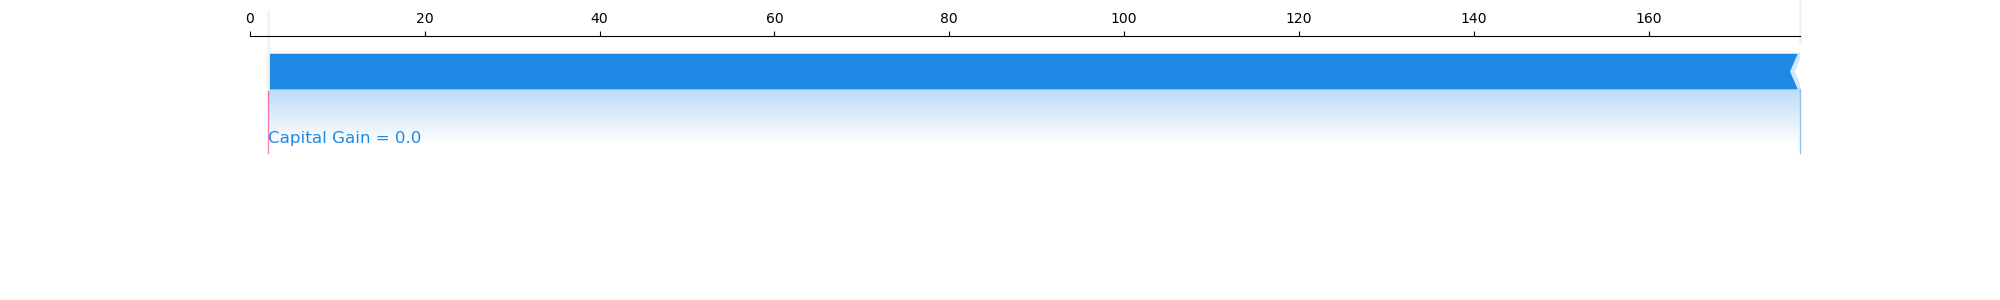
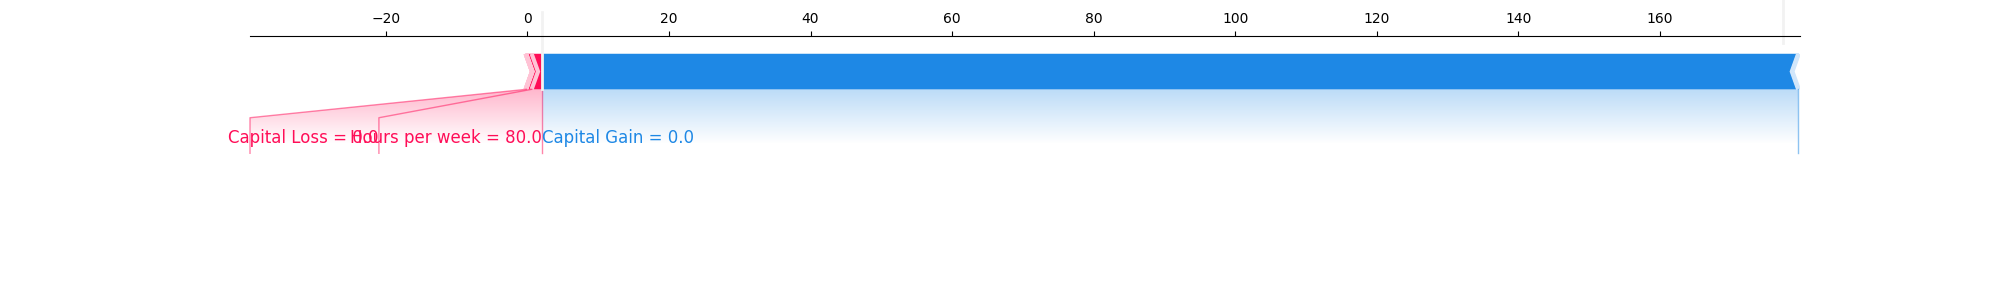
Add HTTP handling for prediction and explanation

diff --git a/frontend/src/components/HelloWorld.vue b/frontend/src/components/HelloWorld.vue
@@ -4,7 +4,9 @@ import { ref } from 'vue'
 defineProps<{
   msg: string
 }>()
-const helloResponse = ref("Placeholder")
+const helloResponse = ref("Hello Placeholder")
+const predictResponse = ref("[Predict Placeholder]")
+const explanationSource = ref("/img/explanationFiller.png")
 
 async function getResponse() {
   helloResponse.value = await fetch('http://localhost:5000/')
@@ -12,13 +14,26 @@ async function getResponse() {
         .catch(error => error.toString())
 }
 
+async function getPrediction() {
+  predictResponse.value = await fetch('http://localhost:5000/predict')
+        .then(response => response.json().then(json => JSON.stringify(json)))
+        .catch(error => error.toString())
+}
+
+async function getExplanation() {
+  explanationSource.value = "http://localhost:5000/explain"
+}
 </script>
 
 <template>
   <div class="greetings">
     <h1 class="green">{{ msg }}</h1>
     <h1>{{helloResponse}}</h1>
+    <h1>Prediction: {{predictResponse}}</h1>
     <button @click="getResponse()">Get Response</button>
+    <button @click="getPrediction()">Get Prediction</button>
+    <button @click="getExplanation()">Get Explanation</button>
+    Explanation:<img :src="explanationSource" />
     <h3>
       You’ve successfully created a project with
       <a href="https://vitejs.dev/" target="_blank" rel="noopener">Vite</a> +

diff --git a/backend/app.py b/backend/app.py
@@ -32,10 +32,12 @@ def predict():
     X_display, y_display = shap.datasets.adult(display=True)
     explainer = shap.KernelExplainer(f, X.iloc[:50, :])
     shap_values = explainer.shap_values(X.iloc[299, :], nsamples=500)
-    return { # from https://stackoverflow.com/a/44752209
+    response = jsonify({ # from https://stackoverflow.com/a/44752209
         "expectedvalue": pd.Series(explainer.expected_value).to_json(orient='values'),
         "shapvalues": pd.Series(shap_values).to_json(orient='values'),
-    }
+    })
+    response.headers.add('Access-Control-Allow-Origin', '*')
+    return response
 
 
 def f(X):
